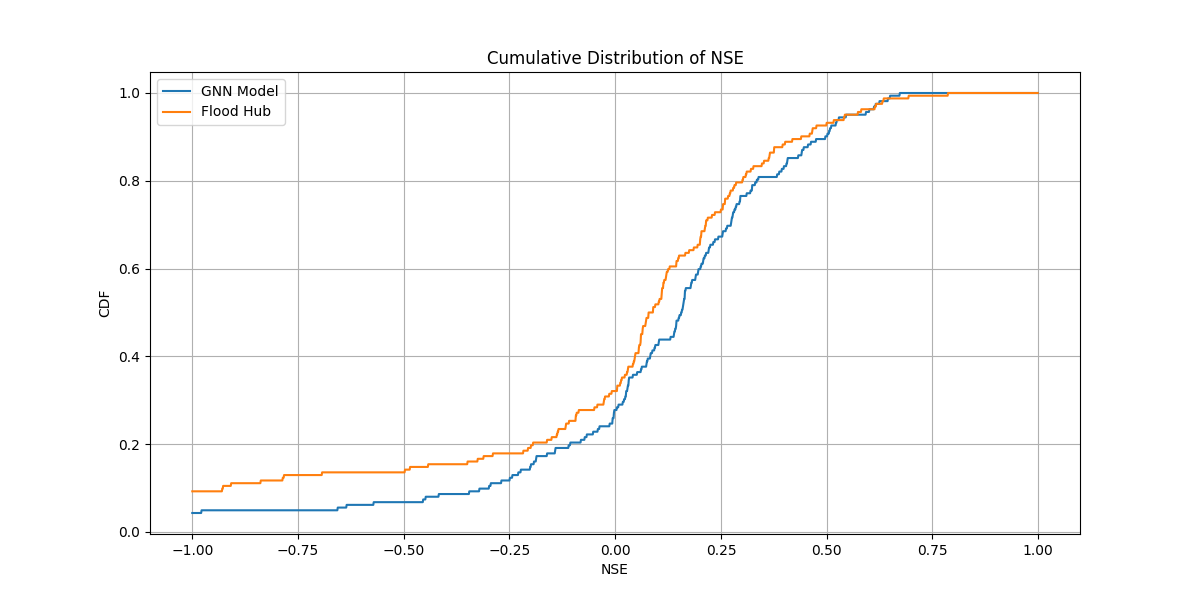
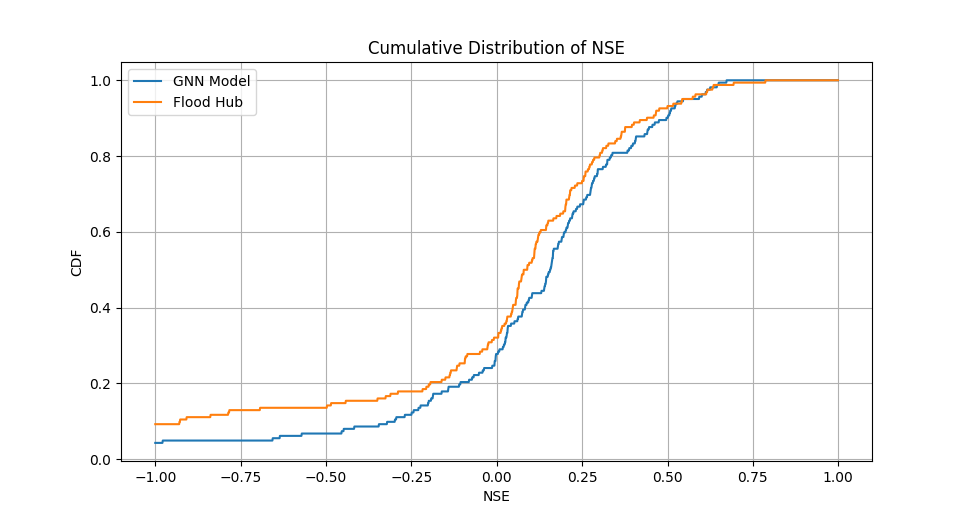
Removed 1 year return period events due to inconsistencies with Flood Hub paper implementation

diff --git a/compare.py b/compare.py
@@ -41,13 +41,13 @@ def plotMetrics(floodHubMetrics, modelMetrics, config):
         flood["precision"][i] = precision
         flood["f1"][i] = f1
 
-    plt.figure(figsize=(20, 12))
+    plt.figure(figsize=(10, 6))
 
     labels = ["1 Year Return Period", "2 Year Return Period", "5 Year Return Period", "10 Year Return Period"]
 
     def plotMetric(m, name):
-        for i in range(4):
-            plt.subplot(1, 4, i + 1)
+        for i in range(1, 4):
+            plt.subplot(1, 3, i)
             plt.title(labels[i])
             modelF1 = model[m][:, :, i].T
             modelF1 = [box[~np.isnan(box)] for box in modelF1]
@@ -88,7 +88,7 @@ def plotMetrics(floodHubMetrics, modelMetrics, config):
     floodHubNSE = 1 - np.array([floodHubMetrics[name]["nseNum"] / floodHubMetrics[name]["nseDenom"] for name in floodHubMetrics])
     floodHubCDF = np.array([np.sum(floodHubNSE < (threshold / 1000)) / len(floodHubNSE) for threshold in range(-1000, 1000)])
 
-    plt.figure(figsize=(12, 6))
+    plt.figure(figsize=(6, 3))
     plt.plot(np.arange(-1000, 1000) / 1000, modelCDF, label="GNN Model")
     plt.plot(np.arange(-1000, 1000) / 1000, floodHubCDF, label="Flood Hub")
     plt.title("Cumulative Distribution of NSE")
